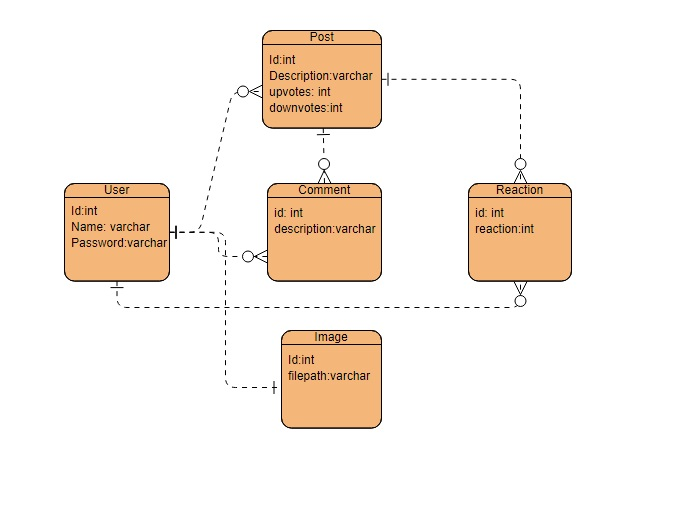
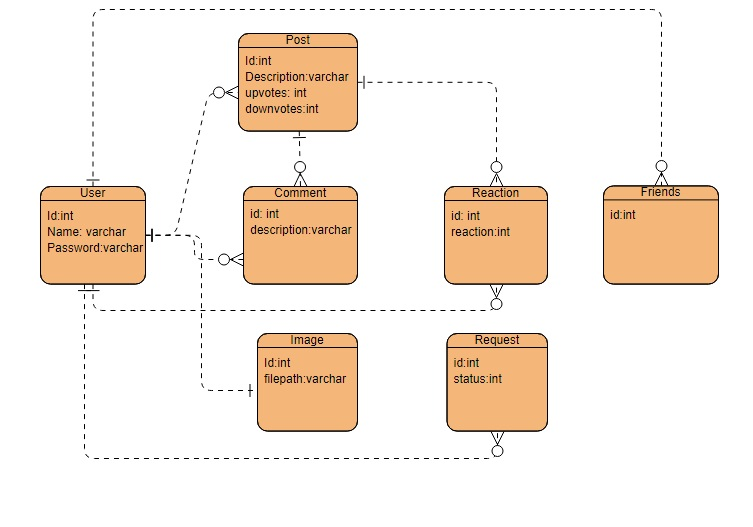
Er diagram and securityconfig updated

diff --git a/src/main/java/com/workspaceit/socialmediaproject/config/WebSecurityConfig.java b/src/main/java/com/workspaceit/socialmediaproject/config/WebSecurityConfig.java
@@ -9,6 +9,7 @@ import org.springframework.security.config.annotation.web.configuration.EnableWe
 import org.springframework.security.config.annotation.web.configuration.WebSecurityConfigurerAdapter;
 import org.springframework.security.core.userdetails.UserDetailsService;
 import org.springframework.security.crypto.bcrypt.BCryptPasswordEncoder;
+import org.springframework.security.web.SecurityFilterChain;
 
 @Configuration
 @EnableWebSecurity
@@ -32,13 +33,13 @@ public class WebSecurityConfig extends WebSecurityConfigurerAdapter {
 
         return daoAuthenticationProvider;
     }
-
+    /*
     //configure type of authentication
     @Override
     protected void configure(AuthenticationManagerBuilder auth) throws Exception {
         auth.authenticationProvider(getAuthenticationProvider());
     }
-
+*/
     //configure which routes can be accessed by which users
 
 
@@ -56,4 +57,22 @@ public class WebSecurityConfig extends WebSecurityConfigurerAdapter {
                 .and().formLogin().defaultSuccessUrl("/user/login/validation");
 
     }
+
+
+
+//    @Bean
+//    protected SecurityFilterChain filterChain(HttpSecurity http) throws Exception {
+//        http.authorizeHttpRequests()
+//                .antMatchers("/user/login").permitAll()
+//                .antMatchers("/user/login/validation").permitAll()
+//                .antMatchers("/user/register").permitAll()
+//                .antMatchers("/user/addUser").permitAll()
+//                .antMatchers("/user/**").authenticated()
+//                .antMatchers("/post/**").authenticated()
+//                .antMatchers("/comment/**").authenticated()
+//                .antMatchers("/reaction/**").authenticated()
+//                .and().formLogin().defaultSuccessUrl("/user/login/validation");
+//        return http.build();
+//
+//    }
 }
